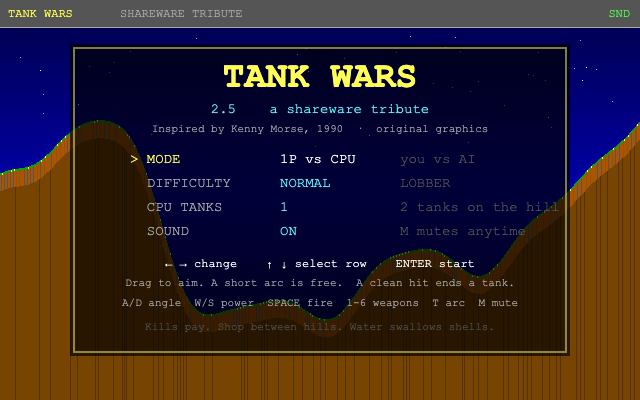
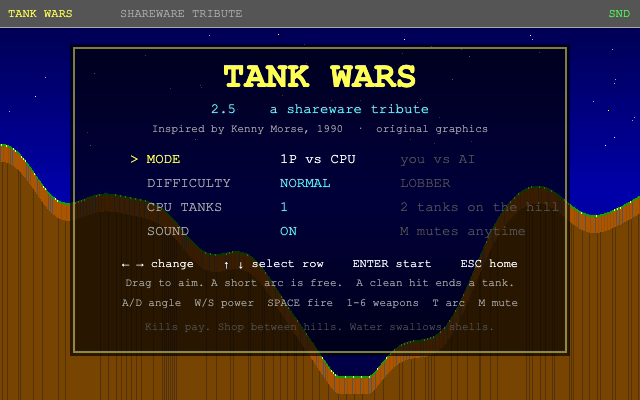
Fill the window, add a way home, and stop stray Space shots
The game screen was capped at 1120px wide and the only way back to the
front page was a small gray link under it. The screen now grows to fill
the window at 16:10. A menu bar like the front page's sits above it with
EXIT TO HOME and FULL SCREEN (shown only where the page can go full
screen). Esc on the title screen goes back to the front page, and Esc
while full screen only leaves full screen instead of also ending the
series.

Space presses made while a shell was in the air stayed queued and fired
the player's tank the instant their turn opened, before they could aim.
Each turn now starts with an empty key queue (online already did this),
auto-repeat from a held Space or Enter is ignored, and fire presses in
the first 0.35s of a turn are dropped so mashing Space to skip a CPU
shot can't fire yours too.

diff --git a/js/game.js b/js/game.js
@@ -131,6 +131,9 @@
   const MAPS = ["canyon", "mesa", "water"];
   const MAP_LABEL = { canyon: "CANYON", mesa: "MESA", water: "WATER GAP" };
   const WINS_TO_TAKE = 3;
+  // Fire presses this soon after a turn opens are dropped, so mashing Space to
+  // skip a CPU shot doesn't also fire yours.
+  const FIRE_LOCK = 0.35;
 
   const CRATE_KINDS = ["bomb", "bomb", "mirv", "digger", "dirt", "nuke"];
 
@@ -459,6 +462,10 @@
     ) {
       e.preventDefault();
     }
+    // Holding Space or Enter is one press, not a stream of shots.
+    if (e.repeat && (k === " " || k === "Spacebar" || k === "Enter")) return;
+    // Esc in full screen is the browser's; the game shouldn't also quit the series.
+    if ((k === "Escape" || k === "Esc") && document.fullscreenElement) return;
     keys[k] = true;
     if (k.length === 1) keys[k.toLowerCase()] = true;
     taps.push(k);
@@ -1095,6 +1102,7 @@
     this.joinError = "";
     this.turnSeq = 0;
     this.clock = 0;
+    this.fireLock = 0;
     this.waitT = 0;
     this.shopReady = false;
     this.demo = false;
@@ -1510,6 +1518,9 @@
     this.turnNumber++;
     this.turnSeq++;
     this.announceTurn();
+    // Keys pressed while the last shell flew don't carry into this turn.
+    flushTaps();
+    this.fireLock = FIRE_LOCK;
     if (!cur.human) {
       const plan = aiChoose(this, cur);
       this.ai = {
@@ -1719,7 +1730,7 @@
         Sfx.ui();
       }
     }
-    if (consume(" ") || consume("Spacebar") || consume("Enter")) this.tryFire();
+    if ((consume(" ") || consume("Spacebar") || consume("Enter")) && this.fireLock <= 0) this.tryFire();
   };
 
   Game.prototype.nudgeTitle = function (dir) {
@@ -1748,6 +1759,10 @@
   };
 
   Game.prototype.handleTitleInput = function () {
+    if (consume("Escape") || consume("Esc")) {
+      location.href = "./";
+      return;
+    }
     if (consume("ArrowLeft") || consume("a") || consume("A")) this.nudgeTitle(-1);
     if (consume("ArrowRight") || consume("d") || consume("D")) this.nudgeTitle(1);
     if (consume("ArrowUp") || consume("w") || consume("W")) {
@@ -1943,6 +1958,7 @@
 
     if (this.mode === "aim") {
       this.settleTanks(dt);
+      if (this.fireLock > 0) this.fireLock -= dt;
       if (this.net && this.netClock(dt)) return;
       const guest = this.isGuest();
       if (this.ai) {
@@ -2556,6 +2572,7 @@
     this.mode = "aim";
     if (cur.human) Sfx.ui();
     flushTaps();
+    this.fireLock = FIRE_LOCK;
   };
 
   Game.prototype.applyVictory = function (s) {
@@ -3167,7 +3184,7 @@
     ctx.fillStyle = C.white;
     ctx.font = '12px "Courier New", Courier, monospace';
     ctx.textAlign = "center";
-    ctx.fillText("← → change    ↑ ↓ select row    ENTER start", W / 2, 258);
+    ctx.fillText("← → change    ↑ ↓ select row    ENTER start    ESC home", W / 2, 258);
     ctx.fillStyle = C.gray;
     ctx.font = '11px "Courier New", Courier, monospace';
     ctx.fillText("Drag to aim. A short arc is free.  A clean hit ends a tank.", W / 2, 278);
@@ -4106,7 +4123,7 @@
         }
         return;
       }
-      if (aim) this.tryFire();
+      if (aim && this.fireLock <= 0) this.tryFire();
     }
   };
 
@@ -4149,6 +4166,24 @@
       game.onlineRole = "host";
       game.hostOnline();
     }
+  }
+
+  // Menu bar FULL SCREEN button. Hidden where the page can't go full screen
+  // (iPhone). Focus goes back to the canvas so Space fires instead of
+  // pressing the button again.
+  const fullBtn = document.getElementById("full");
+  if (fullBtn && document.fullscreenEnabled) {
+    fullBtn.hidden = false;
+    fullBtn.addEventListener("click", function () {
+      if (document.fullscreenElement) document.exitFullscreen();
+      else document.documentElement.requestFullscreen().catch(function () {});
+      canvas.focus();
+    });
+    document.addEventListener("fullscreenchange", function () {
+      const on = !!document.fullscreenElement;
+      fullBtn.textContent = on ? "WINDOW" : "FULL SCREEN";
+      fullBtn.setAttribute("aria-pressed", String(on));
+    });
   }
 
   window.addEventListener("paste", function (e) {

diff --git a/styles.css b/styles.css
@@ -1,7 +1,19 @@
+@font-face {
+  font-family: "VT323";
+  src: url("fonts/VT323-Regular.woff2") format("woff2");
+  font-display: swap;
+}
+
 *,
 *::before,
 *::after {
   box-sizing: border-box;
+}
+
+:root {
+  --bar: 40px;
+  /* Everything around the screen: bar, padding, hint line, bezel. */
+  --chrome: calc(var(--bar) + 84px);
 }
 
 html,
@@ -20,7 +32,93 @@ body {
   align-items: center;
   justify-content: center;
   gap: 10px;
-  padding: 12px;
+  padding: calc(var(--bar) + 12px) 12px 12px;
+}
+
+/* Menu bar, same as the front page's */
+#bar {
+  position: fixed;
+  top: 0;
+  left: 0;
+  right: 0;
+  z-index: 10;
+  display: flex;
+  align-items: center;
+  height: var(--bar);
+  padding: 0 10px;
+  font-family: "VT323", "Courier New", Courier, monospace;
+  font-size: 22px;
+  color: #000000;
+  background: #aaaaaa;
+  box-shadow: 0 4px 0 rgba(0, 0, 0, 0.45);
+}
+
+#bar a {
+  padding: 3px 10px 2px;
+  color: inherit;
+  text-decoration: none;
+}
+
+#bar a:hover,
+#bar a:focus-visible {
+  background: #00aa00;
+  outline: none;
+}
+
+#full {
+  margin-left: auto;
+  padding: 3px 10px 2px;
+  font: inherit;
+  color: #55ffff;
+  background: #555555;
+  border: 0;
+  cursor: pointer;
+}
+
+#full[hidden] {
+  display: none;
+}
+
+#full:hover,
+#full:focus-visible {
+  color: #ffff55;
+  outline: none;
+}
+
+/* Full screen: no hint line, so the screen gets that room too. */
+:root:fullscreen {
+  --chrome: calc(var(--bar) + 36px);
+}
+
+:root:fullscreen #hint {
+  display: none;
+}
+
+@media (max-width: 700px) {
+  .bar-wide {
+    display: none;
+  }
+}
+
+/* Phones held sideways: a slimmer bar and no hint line. */
+@media (max-height: 500px) {
+  :root,
+  :root:fullscreen {
+    --bar: 30px;
+    --chrome: calc(var(--bar) + 28px);
+  }
+
+  body {
+    padding: calc(var(--bar) + 8px) 8px 8px;
+  }
+
+  #bar {
+    font-size: 18px;
+  }
+
+  #hint {
+    display: none;
+  }
 }
 
 #monitor {
@@ -34,7 +132,9 @@ body {
 
 #game {
   display: block;
-  width: min(96vw, 160vh, 1120px);
+  /* As big as the window allows at 16:10 */
+  width: min(100vw - 24px, (100vh - var(--chrome)) * 1.6);
+  width: min(100vw - 24px, (100dvh - var(--chrome)) * 1.6);
   height: auto;
   image-rendering: pixelated;
   image-rendering: crisp-edges;
@@ -85,7 +185,8 @@ body.demo #game {
   width: 100vw;
 }
 
-body.demo #hint {
+body.demo #hint,
+body.demo #bar {
   display: none;
 }
 

diff --git a/play.html b/play.html
@@ -11,6 +11,10 @@
     <link rel="stylesheet" href="styles.css" />
   </head>
   <body>
+    <header id="bar">
+      <a id="home" href="./">◄ <span class="bar-wide">EXIT TO </span>HOME</a>
+      <button id="full" type="button" aria-pressed="false" hidden>FULL SCREEN</button>
+    </header>
     <div id="monitor">
       <canvas id="game" width="640" height="400" aria-label="Tank Wars game"></canvas>
     </div>

diff --git a/README.md b/README.md
@@ -99,7 +99,9 @@ A match is a **best of 5**: first tank to **3 hill wins** takes the series (or t
 | **ROOM** | (online) **HOST** opens a room and shows an invite code · **JOIN** asks for a friend's code |
 | **SOUND** | On / Off |
 
-**← →** change the highlighted value · **↑ ↓** move between rows · **Enter** or **click** to start.
+**← →** change the highlighted value · **↑ ↓** move between rows · **Enter** or **click** to start · **Esc** back to the front page.
+
+The game fills the browser window. The bar above it has **◄ EXIT TO HOME** and a **FULL SCREEN** button (hidden on iPhone, which can't do full screen for a page).
 
 Hotseat opens on `P1 — LOOK AWAY` before the hill is shown, then blanks again before every later human turn. Press **Enter** when the keyboard has been passed.
 
@@ -156,7 +158,7 @@ A centered hit kills. A graze takes a chunk and prints the damage. An HE bomb on
 | **Space** or **Enter** | Fire. During a CPU turn, skip straight to the shot |
 | **T** | Toggle the dotted arc while you have guidance. Firing with it on spends one charge. With none left, the banner says NO GUIDANCE |
 | **M** | Mute / unmute all sound |
-| **Esc** | Back to the title (ends the series) |
+| **Esc** | Back to the title (ends the series). In full screen, the first Esc only leaves full screen |
 
 A **READY?** banner flashes on each turn. A near miss prints **CLOSE!** and a shield prints **BLOCKED**. Wind is in the top bar (`<<<` west, `>>>` east). It changes every turn, sometimes completely, so an aim that hit last time usually needs adjusting. A big change flashes **WIND SHIFT**. Explosions bite craters; tanks fall if the dirt under them disappears. The bottom strip shows the map, series score, cash, shields, and guidance.
 
